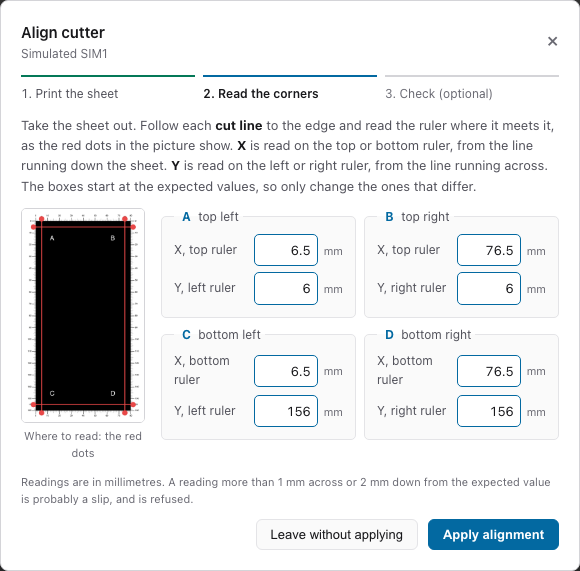
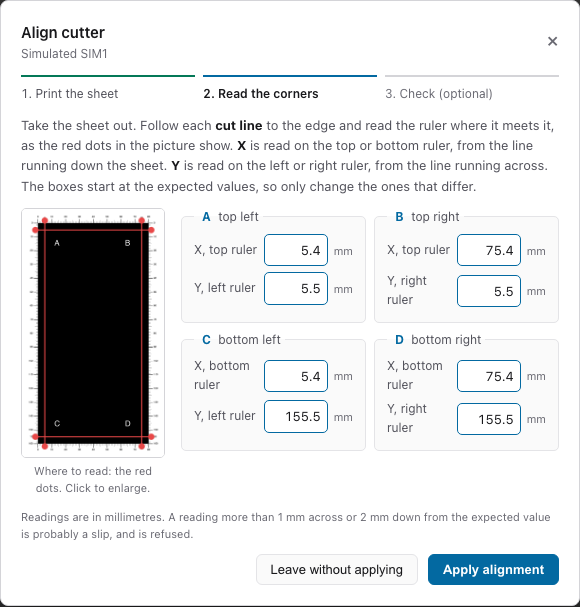
Download page for Sticker Foundry 5.0.1

diff --git a/GUIDE.md b/GUIDE.md
@@ -41,54 +41,46 @@ guests print from their phones.
 *Two printers found and connected.*
 
 **3. First print.** Press **Open incoming folder** and drop in a PNG image. It joins the queue and
-prints. It uses one real sheet, so do this once.
+prints.
 
 ## The console in 9 bullets
 
-<img src="images/guide/console-tour.png" alt="The Sticker Foundry console: two printer cards with a green stripe on the left, booth, queue, and the Sheets panel with the Cutting switches open" width="900">
+<img src="images/guide/console-tour.png" alt="The Sticker Foundry console: two printer cards with a green stripe on the left, booth, queue, and the Sheets panel with the background" width="900">
 
 *The console. Header: the sheet count, then Admin, Set up and Wall (with a folder and a copy icon beside it), then Ask, the light/dark switch and Quit.*
 
-- **Printers:** one card each. **Ready** is good. A coloured stripe on the left edge shows how it is doing, and a **Fault** badge appears if it stops. Small battery, ink and USB marks show only when the printer reports them. The **...** button on a card opens its menu.
+- **Printers:** one card each. **Ready** is good. A coloured stripe on the left edge shows how it is doing, and a **Fault** badge appears if it stops. Small battery, ink and USB marks show only when the printer reports them. Plug a printer in with a USB cable and the console uses the cable; it falls back to Bluetooth if the cable link does not work. Experimental. The **...** button on a card opens its menu.
 - **Queue:** waiting, printing now and completed sheets.
 - **Booth:** which booth this Mac prints for. The dot is green when it is connected.
 - **Pause** and **Open incoming folder:** stop sending sheets, or drop images in to print.
 - **Where's my print?** finds one guest's sheet.
-- **Sheets:** under the queue. **Background** is the colour or picture behind the stickers. **Cutting** (folded away) has three switches, see below.
+- **Sheets:** under the queue. **Background** is the colour or picture behind the stickers. Sharp corners of every sticker get a short extra cut, so pointy stickers peel cleanly.
 - **Ask:** the helper, top right.
 - **Wall:** the sticker wall for a screen at the booth (see below). The folder icon beside it opens your own starter sheets, and the copy icon copies the wall's link.
 - **Footer:** pinned to the bottom with a just-for-fun game above it. Click the sticker to play.
 
 ## Cuts land beside the print: align the cutter
 
-If the blade cuts beside the stickers instead of round them, align the cutter. It takes one sheet.
+If the blade cuts beside the stickers instead of round them, align the cutter.
 
 <img src="images/guide/printer-menu.png" alt="The menu of a printer card, open, with Align cutter, Restore factory alignment and Printer details" width="420">
 
 *On the printer's card, press the ... button, then Align cutter.*
 
-1. **Print the sheet.** Press **Print alignment sheet (1 sheet)**. The printer prints one test sheet with rulers along its edges and cuts four lines near the corners, A, B, C and D.
+1. **Print the sheet.** Press **Print alignment sheet**. The printer prints one test sheet with rulers along its edges and cuts four long lines that cross at the corners, A, B, C and D.
 2. **Read the corners.** Take the sheet out. For each corner, find where the cut lines meet the rulers and type the numbers in millimetres. X is across, on the top or bottom ruler. Y is down, on the left or right ruler. The boxes start at the expected values (5 and 75 across, 5 and 155 down), so change only the ones that differ. Press **Apply alignment**. The printer remembers the fix.
 
 <img src="images/guide/align-readings.png" alt="The Align cutter window at step 2, Read the corners: the alignment sheet picture and boxes for corners A, B, C and D" width="560">
 
 *Step 2: type where each cut corner meets the rulers.*
 
-3. **Check (optional).** Press **Check on the same sheet**. Put the same sheet back in the tray, alone. The printer only cuts it again, and no new sheet is used. The new corners should sit on 5, 75, 5 and 155. Six small stars are cut in the middle, the left column plain and the right column with the corner overcut. Peel one from each column to compare.
+3. **Check (optional).** Press **Check on the same sheet**. Put the same sheet back in the tray, alone, printed side up. The printer only cuts it again. The new corners should sit on 5, 75, 5 and 155.
 
 <img src="images/guide/align-check.png" alt="The Align cutter window at step 3, after the check: the new corner cuts should sit on 5, 75, 5 and 155" width="560">
 
 *Step 3: the check says where the new corners should sit.*
 
-Cuts look worse? Press **...** on the card, then **Restore factory alignment**. It uses no paper.
-
-## The Cutting switches
-
-Open **Cutting**, under **Sheets**. The switches are off by default.
-
-- **Light blade pressure:** for thinner sheets. Leave it off for the official sheets.
-- **Corner overcut:** a short extra cut at sharp corners, so pointy stickers peel cleanly. Try it on one sheet first.
-- **Prefer USB:** use a USB cable instead of Bluetooth when a printer is plugged in. Experimental.
+Cuts look worse? Press **...** on the card, then **Restore factory alignment**.
 
 ## The sticker wall
 
@@ -125,7 +117,7 @@ the button on screen. Try "A printer says Offline", "Print a guest's sheet again
 - Do not switch off a printer while it is printing.
 - Never clear a fault you have not looked at.
 - Keep the Mac plugged in and awake.
-- Reprint or print again uses another sheet and another ribbon panel. It never happens by itself.
+- Reprint and print again never happen by themselves.
 - Paper and ribbon run out together, so change them together.
 - Guests' phones need the booth to have internet. Folder printing works offline.
 - Run one Mac per booth.

diff --git a/GUIDE-FOR-AI.md b/GUIDE-FOR-AI.md
@@ -13,7 +13,7 @@ How to answer:
   https://github.com/BansalAakash/sticker-foundry-releases/blob/main/GUIDE.md
 - Never tell someone to clear a printer fault they have not looked at, to switch a printer off while it
   prints, or to force-quit the app while printing.
-- Printing a sheet again, or reprinting a held sheet, uses another sheet of paper and ribbon: say so.
+- Printing a sheet again, or reprinting a held sheet, never happens by itself: it takes a button press.
 
 Inside the console there is also an **Ask** button (top right) with a built-in helper that answers from these
 same notes and points at the button on screen.
@@ -368,23 +368,15 @@ The switch at the top right changes between dark and light. It is remembered on 
 
 Where: **Dark or light**
 
-### Blade pressure
-
-Asked as: blade, blade pressure, cutting pressure, cut too deep, does not cut through, thin sheets
-
-Open Cutting, under Sheets, and use Light blade pressure. Off is the default, for the official sheets. On is for thinner sheets.
-
-Where: **Open Cutting, then Light blade pressure**
-
 ### The cut is off from the print (Align cutter)
 
 Asked as: align cutter, alignment, cut is off, cut offset, blade misaligned, print and cut not lined up
 
-If the blade cuts beside the print, press the three dots on that printer's card, then Align cutter. It prints one test sheet (one sheet used), you read where its four cut lines meet the rulers, and the printer remembers the fix. Then you can check it on the same sheet, with no new sheet.
+If the blade cuts beside the print, press the three dots on that printer's card, then Align cutter. It prints one test sheet, you read where its four cut lines meet the rulers, and the printer remembers the fix. Then you can check it on the same sheet.
 
 Steps:
 1. Press the three dots on the card, then Align cutter.
-2. Press Print alignment sheet (it uses 1 sheet).
+2. Press Print alignment sheet.
 3. Read where each cut line meets the ruler (the red dots in the picture). Change only boxes that differ.
 4. Press Apply alignment, then Check on the same sheet (optional).
 
@@ -394,7 +386,7 @@ Where: **The three dots on the printer's card**
 
 Asked as: restore factory alignment, factory alignment, undo alignment, reset cutter, reset alignment, cut worse after aligning
 
-Press the three dots on the printer's card, then Restore factory alignment. It uses no paper and removes any correction made with Align cutter. Use it if cuts look worse after aligning.
+Press the three dots on the printer's card, then Restore factory alignment. It removes any correction made with Align cutter. Use it if cuts look worse after aligning.
 
 Steps:
 1. Press the three dots on the card.
@@ -409,22 +401,6 @@ Asked as: printer details, battery, ink left, ribbon left, firmware, serial numb
 A card shows the battery and the ink left when the printer reports them, and nothing when it does not. For firmware, serial number, counts and when the cutter was last aligned, press the three dots on the card, then Printer details.
 
 Where: **The cards, and the three dots on each**
-
-### Corner overcut: pointy stickers that will not peel
-
-Asked as: corner overcut, overcut, sharp corners, pointy, corners stick, hard to peel
-
-Adds a short extra cut at sharp corners so pointy stickers peel cleanly. Open Cutting, under Sheets, and switch on Corner overcut. Try it on one sheet first.
-
-Where: **Open Cutting, then Corner overcut**
-
-### Use a USB cable instead of Bluetooth
-
-Asked as: usb, usb cable, prefer usb, wired, cable, bluetooth keeps dropping
-
-Open Cutting, under Sheets, and switch on Prefer USB. A printer that is plugged in then connects by cable instead of Bluetooth. It is experimental, so keep Bluetooth for a busy event until you have tried it.
-
-Where: **Open Cutting, then Prefer USB**
 
 ### Things not to do
 

diff --git a/README.md b/README.md
@@ -44,7 +44,7 @@ folder inside your home folder** (no admin password needed), and opens it. Allow
 
 - A **Mac** with macOS 12 or later, Apple Silicon or Intel.
 - One or more Bluetooth print-and-cut **sticker printers**, with **4 x 7 inch sticker
-  sheets** and ink ribbon. Each print uses one sheet and one ribbon panel.
+  sheets** and ink ribbon.
 - **Internet** on the Mac, if guests will print from their phones.
 - For guests' phones: the **admin password**, or a **console code** for your booth from
   whoever runs your booths.
@@ -133,11 +133,11 @@ booth, only images dropped into the incoming folder print.
 
 ## New in 5.0
 
-- **Align the cutter.** If cuts land beside the print, press **...** on the printer's card, then **Align cutter**. It uses one sheet, and you can check it on the same sheet without using another.
+- **Align the cutter.** If cuts land beside the print, press **...** on the printer's card, then **Align cutter**. You can check it on the same sheet afterwards.
 - **Clearer printer problems.** A card now names the problem, such as a paper jam or an ink cartridge problem.
 - **Battery and ink** show on the printer card when the printer reports them.
-- **Corner overcut** (under **Cutting**): pointy stickers peel more cleanly. Off by default.
-- **USB cable** (under **Cutting**): experimental, off by default.
+- **Corner overcut** is always on: sharp corners get a short extra cut, so pointy stickers peel more cleanly.
+- **USB cable:** plug a printer in and the console uses the cable; it falls back to Bluetooth if the cable link does not work. Experimental.
 - **A refreshed look.**
 
 ## On the day
